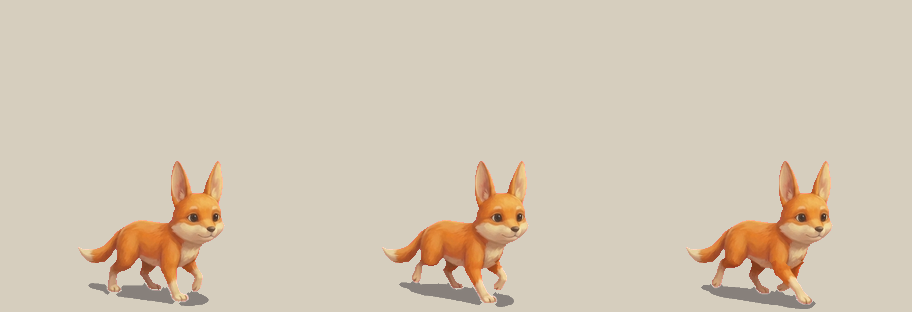
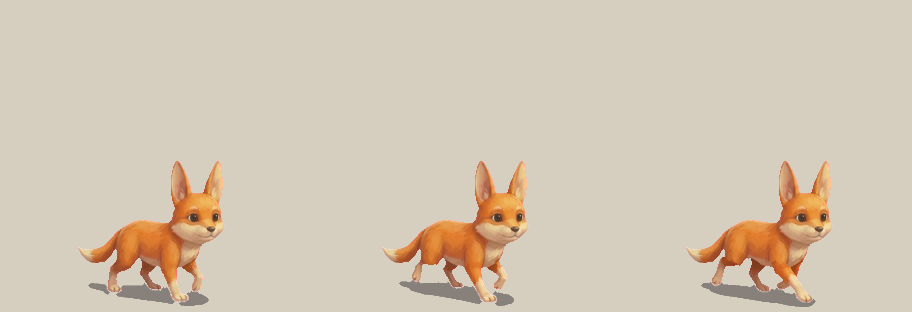
S05 keys-b: step legs raised so every planted paw sits on row 301, lock unchanged

diff --git a/art/station-masters/pods/concepts/mibi-motion-proof/guides/torso-lock-b.py b/art/station-masters/pods/concepts/mibi-motion-proof/guides/torso-lock-b.py
@@ -24,8 +24,11 @@ for k in ['stepA', 'stepB']:
     i = int(np.argmin(cost[:, -1])); cut = np.zeros(304, int)
     for j in range(303, -1, -1): cut[j] = R0 + i; i = back[i, j]
     zone = np.arange(312)[:, None] < cut[None, :]
+    # the planted paws on pass's foot row (the animator, ed4f4d5): the legs, below the seam only, rise by the step's paw offset
+    ps = int(np.where(bs.any(1))[0].max()); pt = int(np.where((T2[..., 3] == 255).any(1))[0].max()); lift = pt - ps
+    if lift > 0: T2 = np.concatenate([T2[lift:], np.zeros_like(T2[:lift])], 0)
     out = T2.copy(); out[zone] = S[zone]                                   # above the seam: pass exactly (every pixel, alpha included)
     Image.fromarray(out).save(f'{K}/juv-S05-{k}-locked-304x312.png')
-    log[k] = {'shift': [int(dx), int(dy)], 'px differing from pass above row 256 (belly - 6)': int((out[:R0] != S[:R0]).any(-1).sum()), 'px differing rows 236 to the belly line': int((out[236:BELLY] != S[236:BELLY]).any(-1)[zone[236:BELLY]].sum()), 'px differing above the seam': int((out[zone] != S[zone]).any(-1).sum())}
+    log[k] = {'shift': [int(dx), int(dy)], 'legs lifted px': int(lift), 'lowest paw row': int(np.where((out[..., 3] == 255).any(1))[0].max()), 'px differing from pass above row 256 (belly - 6)': int((out[:R0] != S[:R0]).any(-1).sum()), 'px differing rows 236 to the belly line': int((out[236:BELLY] != S[236:BELLY]).any(-1)[zone[236:BELLY]].sum()), 'px differing above the seam': int((out[zone] != S[zone]).any(-1).sum())}
 Image.fromarray(S).save(f'{K}/juv-S05-pass-locked-304x312.png')
 json.dump(log, open(f'{K}/torso-lock-b.json', 'w'), indent=1); print(json.dumps(log))

diff --git a/art/station-masters/pods/concepts/mibi-motion-proof/README.md b/art/station-masters/pods/concepts/mibi-motion-proof/README.md
@@ -74,3 +74,5 @@ The flipbooks are re-rendered. Each strip shows stand, crouch, the first hop's a
 **Lock to the belly line (the animator, 16:04).** The seam now runs within ±6 px of the belly line (pass: row 262), at the leg roots. Above row 256 each step is pass exactly. **Measured: 0 px differing from pass above the seam and between row 236 and the belly line, on both steps.** Flag for the animator's 1× judgement: on stepA, a small lighter patch where pass's torso meets the raised hind thigh.
 
 **Leg fringe (the animator, 16:09).** A 1 px grey line of half-transparent shadow ink ran along the lower legs and showed at 1×. The S05 cut now keeps only the solid body and the shadow's own blob (thin low-alpha lines are opened away). Re-cut, then re-locked from pass. **Measured: 0 thin low-alpha px on any outline, 0 magenta, lock unchanged** (0 px differing above the seam).
+
+**Planted paws on one row (the animator, ed4f4d5; programme lead's go 18:51).** The lowest paw sat on row 301 (pass), 302 (stepA) and 303 (stepB), which read as a slight limp. In `guides/torso-lock-b.py` each step's legs, below the seam only, now rise by the step's paw offset: stepA 1 px, stepB 2 px. **Measured: every planted paw on row 301; 0 px differing from pass above the seam and from row 236 to the belly line, on both steps.** The leg roots read clean at 1× (`keys-b/s05-locked-1x.png`). Signed.
